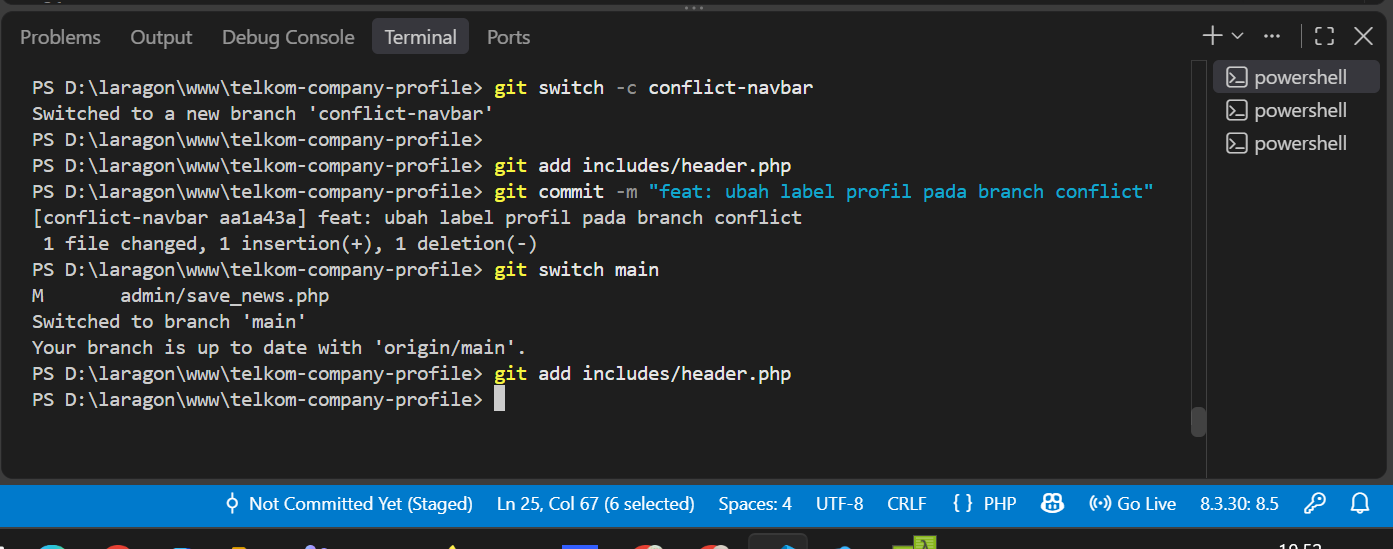
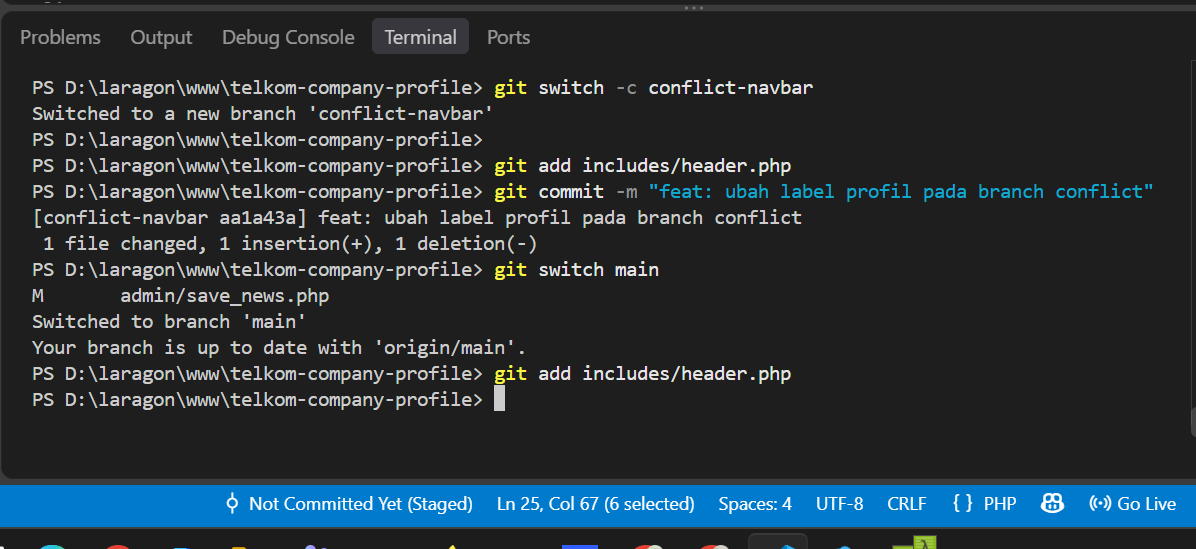
docs: mengubah git log README

diff --git a/README.md b/README.md
@@ -3,7 +3,7 @@ Project simulasi HTML, CSS, PHP native, MySQL/MariaDB, dan Git
 
 Perubahan ini dibuat dari simulasi Laptop B
 
-# Simulasi merge conflic
+# Simulasi merge conflict
 1. Berada pada branch main dengan working tree dalam kondisi bersih
 2. Membuat branch baru bernama conflict-navbar
 3. Pada branch conflict-navbar, mengubah teks menu navigasi di file includes/header.php dari Profil menjadi Tentang Kami, lalu melakukan commit
@@ -32,13 +32,16 @@ Saat conflict terjadi, di dalam file akan muncul penanda khusus dari Git. Isi di
 
 # Riwayat Praktikum GIT
 ## Hasil git log -- oneline -- graph -- decorate -- all
-PS D:laragon\www\telkom-company-profile> git log -- oneline -- graph -- decorate -- all
-* 9512f83 (HEAD -> main, origin/main) docs: perbarui README dari Laptop B
+PS D:\laragon\www\telkom-company-profile> git log --oneline --graph --decorate --all
+* b6056f0 (HEAD -> main, origin/main) docs: perbaiki gambar README
+* 04f756d docs: perbaiki screenshot di README
+* 344e428 docs: menambahkab dokumentasi praktikum, screenshot conflict, dan git log
+* 9512f83 (tag: v1.0.0) docs: perbarui README dari Laptop B
 *   4142274 merge: selesaikan conflict navbar
-|\
+|\  
 | * aa1a43a (conflict-navbar) feat: ubah label profil pada branch conflict
 * | a09aa51 style: ubah label profil pada main
-|/
+|/  
 * 2817434 feat: tambahkan informasi fokus pembelajaran
 * 762a179 feat: tambahkan form admin lokal untuk berita
 * d5984df feat: simpan pesan kontak ke database
@@ -47,4 +50,4 @@ PS D:laragon\www\telkom-company-profile> git log -- oneline -- graph -- decorate
 * 91624e6 feat: tambahkan layout dasar dan stylesheet
 * 80b4b40 chore: inisialisasi project dan dokumentasi awal
 
-![git-log](image/git-log.png)
+![log](image/log.png)
